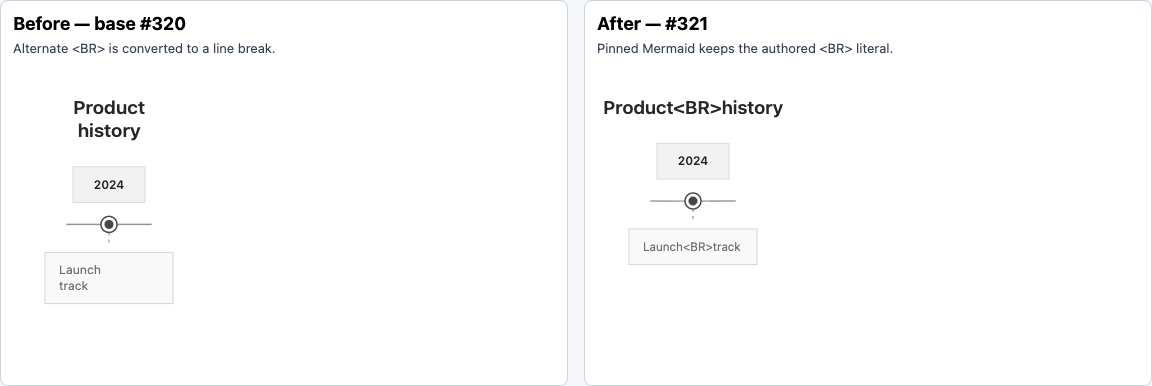
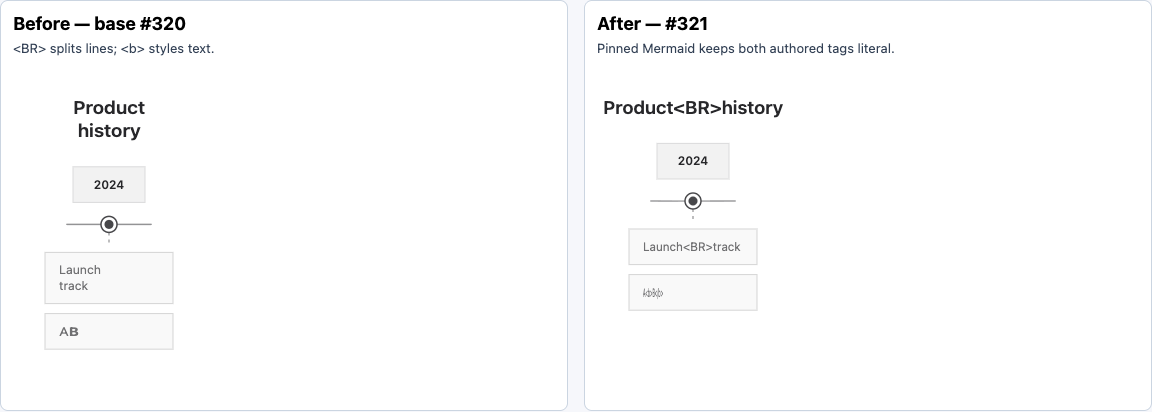
fix(timeline): render and measure authored formatting tags literally

diff --git a/src/timeline/layout.ts b/src/timeline/layout.ts
@@ -6,11 +6,11 @@ import type {
   PositionedTimelineEvent,
 } from './types.ts'
 import type { RenderOptions } from '../types.ts'
-import { measureMultilineText, measureTextWidth } from '../text-metrics.ts'
+import { LINE_HEIGHT_RATIO, measureTextWidth } from '../text-metrics.ts'
+import type { MultilineMetrics } from '../text-metrics.ts'
 import { STROKE_WIDTHS, applyTextTransform, resolveRenderStyle } from '../styles.ts'
 import type { RenderStyleDefaults, ResolvedRenderStyle } from '../styles.ts'
 import type { InternalStyleFace } from '../scene/style-registry.ts'
-import { stripFormattingTags } from '../multiline-utils.ts'
 
 // ============================================================================
 // Timeline diagram layout engine
@@ -154,7 +154,7 @@ export function layoutTimelineDiagram(
     : undefined
 
   const titleMetrics = titleText
-    ? measureMultilineText(titleText, TL.titleFontSize, TL.titleFontWeight)
+    ? measureTimelineText(titleText, TL.titleFontSize, TL.titleFontWeight)
     : undefined
 
   let metrics = computeSectionMetrics(diagram, style, DEFAULT_WRAP_CAPS, vertical)
@@ -342,13 +342,13 @@ function computeSectionMetrics(
       : undefined
     const periodMetrics: PeriodMetric[] = section.periods.map(period => {
       const wrappedPeriodLabel = wrapTimelineText(applyTextTransform(period.label, style.edgeTextTransform), caps.pill, style.edgeLabelFontSize, style.edgeLabelFontWeight)
-      const pillText = measureMultilineText(wrappedPeriodLabel, style.edgeLabelFontSize, style.edgeLabelFontWeight)
+      const pillText = measureTimelineText(wrappedPeriodLabel, style.edgeLabelFontSize, style.edgeLabelFontWeight)
       const pillWidth = Math.max(caps.pillMinWidth, pillText.width + style.nodePaddingX * 2)
       const pillHeight = pillText.height + style.nodePaddingY * 2
 
       const eventMetrics = period.events.map(event => {
         const wrappedEventText = wrapTimelineText(applyTextTransform(event.text, style.nodeTextTransform), caps.event, style.nodeLabelFontSize, style.nodeLabelFontWeight)
-        const text = measureMultilineText(wrappedEventText, style.nodeLabelFontSize, style.nodeLabelFontWeight)
+        const text = measureTimelineText(wrappedEventText, style.nodeLabelFontSize, style.nodeLabelFontWeight)
         return {
           text: wrappedEventText,
           width: Math.max(caps.eventMinWidth, text.width + style.nodePaddingX * 2),
@@ -376,7 +376,7 @@ function computeSectionMetrics(
     }, 0)
 
     const headerWidth = wrappedSectionLabel
-      ? measureMultilineText(wrappedSectionLabel, style.groupHeaderFontSize, style.groupHeaderFontWeight).width + style.groupLabelPaddingX * 2
+      ? measureTimelineText(wrappedSectionLabel, style.groupHeaderFontSize, style.groupHeaderFontWeight).width + style.groupLabelPaddingX * 2
       : 0
 
     // In LR the header text rides the main axis, so it can widen the frame
@@ -404,6 +404,19 @@ function projectedMainEnd(metrics: SectionMetric[], sectionPadX: number, showSec
   return cursor + TL.paddingX
 }
 
+/** Timeline's authored text is literal except exact <br> (already a newline).
+ * Generic formatted-text metrics would strip visible <b>/<i> characters. */
+function measureTimelineText(text: string, fontSize: number, fontWeight: number): MultilineMetrics {
+  const lines = text.split('\n')
+  const lineHeight = fontSize * LINE_HEIGHT_RATIO
+  return {
+    width: Math.max(0, ...lines.map(line => measureTextWidth(line, fontSize, fontWeight))),
+    height: lines.length * lineHeight,
+    lines,
+    lineHeight,
+  }
+}
+
 function wrapTimelineText(
   text: string,
   maxWidth: number,
@@ -422,8 +435,7 @@ function wrapTimelineLine(
   fontSize: number,
   fontWeight: number,
 ): string[] {
-  const plainLine = stripFormattingTags(line)
-  if (measureTextWidth(plainLine, fontSize, fontWeight) <= maxWidth) {
+  if (measureTextWidth(line, fontSize, fontWeight) <= maxWidth) {
     return [line]
   }
 
@@ -437,7 +449,7 @@ function wrapTimelineLine(
 
   for (const word of words) {
     const candidate = current ? `${current} ${word}` : word
-    const candidateWidth = measureTextWidth(stripFormattingTags(candidate), fontSize, fontWeight)
+    const candidateWidth = measureTextWidth(candidate, fontSize, fontWeight)
 
     if (candidateWidth <= maxWidth) {
       current = candidate
@@ -449,7 +461,7 @@ function wrapTimelineLine(
       current = ''
     }
 
-    if (measureTextWidth(stripFormattingTags(word), fontSize, fontWeight) > maxWidth) {
+    if (measureTextWidth(word, fontSize, fontWeight) > maxWidth) {
       wrapped.push(...breakLongToken(word, maxWidth, fontSize, fontWeight))
     } else {
       current = word
@@ -471,7 +483,7 @@ function breakLongToken(
 
   for (const char of token) {
     const candidate = current + char
-    if (current && measureTextWidth(stripFormattingTags(candidate), fontSize, fontWeight) > maxWidth) {
+    if (current && measureTextWidth(candidate, fontSize, fontWeight) > maxWidth) {
       chunks.push(current)
       current = char
       continue

diff --git a/src/timeline/renderer.ts b/src/timeline/renderer.ts
@@ -180,6 +180,8 @@ export function lowerTimelineScene(
         diagram.title.y,
         TL.titleFontSize,
         `class="timeline-title" text-anchor="middle" font-size="${TL.titleFontSize}" font-weight="${TL.titleFontWeight}"`,
+        0.35,
+        true,
       ),
     ))
   }
@@ -311,6 +313,8 @@ function lowerSectionFrame(
             section.y + section.headerHeight / 2,
             style.groupHeaderFontSize,
             `class="timeline-section-label" text-anchor="start" font-size="${style.groupHeaderFontSize}" font-weight="${style.groupHeaderFontWeight}"${style.groupFont ? ` font-family="${escapeAttr(style.groupFont)}"` : ''}${letterAttr(style.groupLetterSpacing)}`,
+            0.35,
+            true,
           ),
         ),
       })
@@ -385,6 +389,8 @@ function lowerPeriod(
         period.pillY + period.pillHeight / 2,
         style.edgeLabelFontSize,
         `class="timeline-period-text" text-anchor="middle" font-size="${style.edgeLabelFontSize}" font-weight="${style.edgeLabelFontWeight}"${letterAttr(style.edgeLetterSpacing)}`,
+        0.35,
+        true,
       ),
     ),
   })
@@ -470,6 +476,8 @@ function lowerEvent(
       event.y + event.height / 2,
       style.nodeLabelFontSize,
       `class="timeline-event-text" text-anchor="start" font-size="${style.nodeLabelFontSize}" font-weight="${style.nodeLabelFontWeight}"${letterAttr(style.nodeLetterSpacing)}`,
+      0.35,
+      true,
     ),
   )
 

diff --git a/src/__tests__/timeline-integration.test.ts b/src/__tests__/timeline-integration.test.ts
@@ -92,8 +92,8 @@ describe('renderMermaidSVG – timeline diagrams', () => {
     expect(svg).toContain('launch')
   })
 
-  it('renders noncanonical break spellings as literal text in every Timeline slot', () => {
-    for (const tag of ['<BR>', '<br/>', '<br />']) {
+  it('renders noncanonical breaks and formatting-looking tags literally in every Timeline slot', () => {
+    for (const tag of ['<BR>', '<br/>', '<br />', '<b>', '<i>', '<u>', '<s>']) {
       const text = `A${tag}B`
       const escaped = `A${tag.replace('<', '&lt;').replace('>', '&gt;')}B`
       for (const source of [
@@ -105,8 +105,12 @@ describe('renderMermaidSVG – timeline diagrams', () => {
         const svg = render(source)
         expect(svg, source).toContain(escaped)
         expect(svg, source).not.toContain('NaN')
+        expect(svg, source).not.toContain('<tspan font-weight="bold">')
       }
     }
+    const complete = render('timeline\n  2024 : A<b>Bold</b>Z')
+    expect(complete).toContain('A&lt;b&gt;Bold&lt;/b&gt;Z')
+    expect(complete).not.toContain('<tspan font-weight="bold">')
   })
 
   it('supports dark themes and CSS variable colors without NaN output', () => {

diff --git a/src/scene/fidelity.ts b/src/scene/fidelity.ts
@@ -224,7 +224,7 @@ export function nodeProblems(node: SceneNode, path: string, problems: string[]):
           problems.push(`${path}(text:${node.id}): unexpected markup in Timeline crisp`)
           return
         }
-        if (hasStyledTspan && !/<\/?(?:b|strong|i|em|u|s|del)\b/i.test(node.text)) {
+        if (hasStyledTspan) {
           problems.push(`${path}(text:${node.id}): unexpected styled Timeline tspan`)
           return
         }
@@ -234,7 +234,7 @@ export function nodeProblems(node: SceneNode, path: string, problems: string[]):
         || (node.role === 'title' && serialized.includes('class="pie-title"')
           && /&lt;|&gt;/.test(serialized))
       )
-      const literalTimelineText = timelineTextMark && !hasStyledTspan
+      const literalTimelineText = timelineTextMark
       const normalize = (s: string, fromSvg: boolean) => (fromSvg ? unescapeXml(s
         .replace(/<br\s*\/?>/gi, ' ')
         .replace(/<[^>]+>/g, '')

diff --git a/src/__tests__/scene-text-fidelity.test.ts b/src/__tests__/scene-text-fidelity.test.ts
@@ -104,6 +104,7 @@ describe('fidelity oracle checks text x/y/anchor', () => {
     )
     const faithful: string[] = []
     nodeProblems(make('A<BR>B', 'A&lt;BR&gt;B'), 'p', faithful)
+    nodeProblems(make('A<b>B', 'A&lt;b&gt;B'), 'p', faithful)
     expect(faithful).toEqual([])
     const multiline: string[] = []
     nodeProblems(make('A\nB', '<tspan x="10" dy="0">A</tspan><tspan x="10" dy="12">B</tspan>'), 'p', multiline)
@@ -116,6 +117,7 @@ describe('fidelity oracle checks text x/y/anchor', () => {
       ['A&lt;script&gt;B', 'A&amp;lt;script&amp;gt;B<tspan font-weight="bold"></tspan><script/>'],
       ['A&lt;script&gt;B', 'A&amp;lt;script&amp;gt;B<tspan font-weight="bold"></tspan>'],
       ['A**B**', 'AB'],
+      ['A<b>B', 'A<tspan font-weight="bold">B</tspan>'],
     ] as const) {
       const problems: string[] = []
       nodeProblems(make(semantic, crisp), 'p', problems)

diff --git a/scripts/site/website-payload-budgets.ts b/scripts/site/website-payload-budgets.ts
@@ -115,8 +115,9 @@ export const WEBSITE_PAYLOAD_BUDGETS: WebsitePayloadBudgets = Object.freeze({
     // The shared Scene literal-text guard measures 3,395,922 raw and
     // 1,009,850 gzip bytes with the same two editor requests.
     maxRawBytes: 3_396_100,
-    // Timeline semantic line-break normalization measures 1,009,565 gzip
-    // bytes on Linux/x64; retain 85 bytes of headroom with no new requests.
+    // Timeline semantic line-break normalization previously measured 1,009,565
+    // gzip bytes. The shared literal-text Scene guard now measures 1,009,850
+    // on Linux/x64; retain 150 bytes of headroom with no new requests.
     maxGzipBytes: 1_010_000,
     // Pie's escaped-LF painted-text projection stays in the existing two
     // requests. The tab-aware linear scanner measured 3,393,328 raw /

diff --git a/src/__tests__/agent-timeline.test.ts b/src/__tests__/agent-timeline.test.ts
@@ -51,7 +51,7 @@ describe('timeline parsing — structured', () => {
     expect(project(parseTimelineDiagram(normalizeMermaidSource(canonical).lines))).toEqual(expected)
   })
   test('preserves literal Timeline text that generic label normalization would rewrite', () => {
-    for (const raw of ['A\\nB', '"Quoted"', '**Bold**', '~~Strike~~', '<BR>Upper', '<br/>Slash', '<br />Spaced']) {
+    for (const raw of ['A\\nB', '"Quoted"', '**Bold**', '~~Strike~~', '<BR>Upper', '<br/>Slash', '<br />Spaced', 'A<b>Bold</b>']) {
       const source = `timeline\n  title ${raw}\n  section ${raw}\n  ${raw} : ${raw}`
       const projections = [
         timeline(source).body,

diff --git a/src/__tests__/timeline-layout.test.ts b/src/__tests__/timeline-layout.test.ts
@@ -12,6 +12,13 @@ function layout(source: string) {
 }
 
 describe('timeline layout', () => {
+  it('measures formatting-looking Timeline tags as visible literal glyphs', () => {
+    const literal = layout('timeline\n  2024 : AAAA<b>BBBBBBBBBBBB').sections[0]!.periods[0]!.events[0]!
+    const withoutTags = layout('timeline\n  2024 : AAAABBBBBBBBBBBB').sections[0]!.periods[0]!.events[0]!
+    expect(literal.text).toBe('AAAA<b>BBBBBBBBBBBB')
+    expect(literal.width).toBeGreaterThan(withoutTags.width)
+  })
+
   it('extends the rail beyond a single period marker and keeps the event below it', () => {
     const diagram = layout(`timeline
       2024 : Launch`)

diff --git a/docs/design/families/timeline.md b/docs/design/families/timeline.md
@@ -19,8 +19,9 @@ header/content directives and event splitting. A colon starts a new event only
 when followed by whitespace, so `10:30` remains text on both surfaces.
 Authored exact `<br>` text is normalized to semantic line breaks on both
 surfaces; structured serialization writes those breaks back as `<br>`. Literal
-`\n`, quotes, Markdown, and other break-tag spellings stay literal, matching
-pinned Mermaid Timeline rather than generic text normalization.
+`\n`, quotes, Markdown, formatting-looking tags such as `<b>`, and other
+break-tag spellings stay literal through parsing, layout, and rendering,
+matching pinned Mermaid Timeline rather than generic text normalization.
 Event-less periods are modeled and serialize in the bare form (`2020`) accepted
 by the renderer; a dangling `2020 :` remains losslessly opaque instead of
 producing canonical source the renderer would reject.
